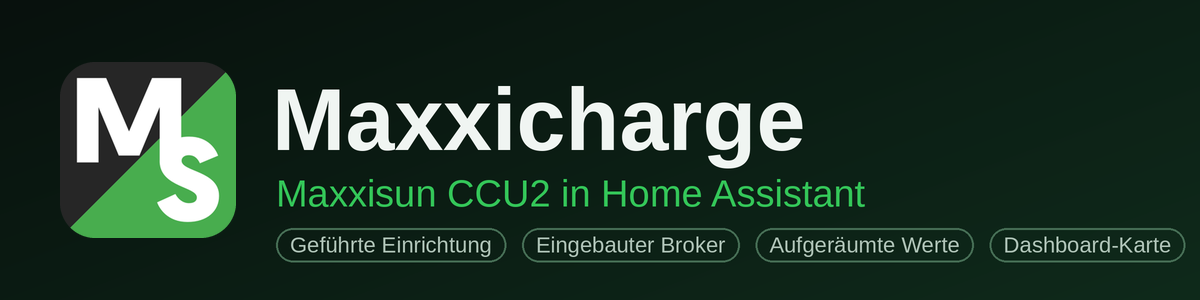
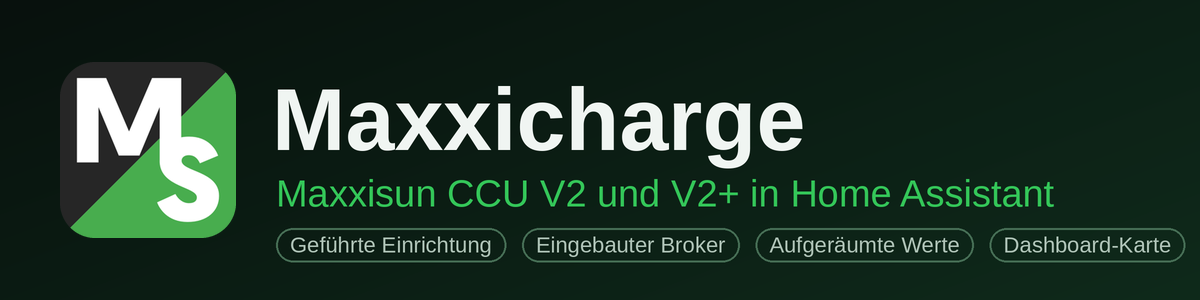
0.6.0: Modellerkennung CCU V2/V2+ über /api/info, Beschriftungen auf V2 und V2+

Changed region(s): [[0.4317, 0.6, 0.8942, 0.69]]

diff --git a/custom_components/maxxicharge/coordinator.py b/custom_components/maxxicharge/coordinator.py
@@ -5,23 +5,32 @@ from __future__ import annotations
 import asyncio
 from collections.abc import Callable
 from datetime import datetime, timedelta
+import ipaddress
 import logging
 import re
 from typing import Any
 
+import aiohttp
 from homeassistant.config_entries import ConfigEntry
 from homeassistant.core import HomeAssistant, callback
 from homeassistant.exceptions import HomeAssistantError
+from homeassistant.helpers import device_registry as dr
 from homeassistant.helpers import issue_registry as ir
+from homeassistant.helpers.aiohttp_client import async_get_clientsession
 from homeassistant.helpers.device_registry import DeviceInfo
-from homeassistant.helpers.event import async_track_time_interval
+from homeassistant.helpers.event import async_call_later, async_track_time_interval
 from homeassistant.helpers.template import Template
 from homeassistant.util import dt as dt_util
 
+from . import calc
 from .const import (
     CONF_CCU_ID,
     CONF_IP,
+    CONF_MODEL,
     DOMAIN,
+    INFO_REFRESH,
+    MODEL_AUTO,
+    MODEL_LABELS,
     MIN_WRITE_FIRMWARE,
     STALE_AFTER,
     TICK,
@@ -91,6 +100,7 @@ class MaxxiCoordinator:
         self._pl_not_avail = "offline"
         self._last_avail: bool | None = None
         self._warned_fw = False
+        self.model_raw: str | None = None  # `deviceModel` aus /api/info
 
         for name, spec in specs.items():
             if spec.state_topic:
@@ -115,6 +125,9 @@ class MaxxiCoordinator:
         self._unsubs.append(
             async_track_time_interval(self.hass, self._tick, timedelta(seconds=TICK_SECONDS))
         )
+        # Modell der CCU erkennen: kurz nach dem Start (die IP kommt erst per MQTT), danach alle paar Stunden
+        self._unsubs.append(async_call_later(self.hass, 20, self._info_job))
+        self._unsubs.append(async_track_time_interval(self.hass, self._info_job, timedelta(seconds=INFO_REFRESH)))
 
     @callback
     def async_stop(self) -> None:
@@ -245,6 +258,49 @@ class MaxxiCoordinator:
     def ip(self) -> str | None:
         return self.entry.options.get(CONF_IP) or self.entry.data.get(CONF_IP) or self.value("CCU IP")
 
+    # ---------- Modell (V2 / V2+) ----------
+    @property
+    def model(self) -> str | None:
+        """Modellname: von Hand gewählt, sonst von der CCU gemeldet, sonst None."""
+        choice = self.entry.options.get(CONF_MODEL, MODEL_AUTO)
+        if choice in MODEL_LABELS:
+            return MODEL_LABELS[choice]
+        return calc.model_label(self.model_raw)
+
+    @callback
+    def _info_job(self, _now: datetime) -> None:
+        self.hass.async_create_task(self.async_refresh_info())
+
+    async def async_refresh_info(self) -> None:
+        """Modell über http://<IP>/api/info lesen (nur lesend, nur private Adressen)."""
+        ip = self.ip
+        try:
+            if not ip or not ipaddress.ip_address(ip).is_private:
+                return
+            async with async_get_clientsession(self.hass).get(
+                f"http://{ip}/api/info", timeout=aiohttp.ClientTimeout(total=5)
+            ) as resp:
+                if resp.status != 200:
+                    return
+                data = await resp.json(content_type=None)
+        except (aiohttp.ClientError, TimeoutError, ValueError):
+            return
+        raw = data.get("deviceModel") if isinstance(data, dict) else None
+        if isinstance(raw, str) and raw != self.model_raw:
+            self.model_raw = raw
+            _LOGGER.info("CCU %s meldet das Modell %s (%s)", self.ccu_id, raw, self.model or "unbekannt")
+            self._update_device_model()
+            self._notify(None)
+
+    @callback
+    def _update_device_model(self) -> None:
+        label = self.model
+        if not label:
+            return
+        device = dr.async_get(self.hass).async_get_device(identifiers={(DOMAIN, self.ccu_id)})
+        if device and device.model != label:
+            dr.async_get(self.hass).async_update_device(device.id, model=label)
+
     @property
     def device_info(self) -> DeviceInfo:
         model = next((s.model for s in self.specs.values() if s.model), None)
@@ -252,7 +308,7 @@ class MaxxiCoordinator:
             identifiers={(DOMAIN, self.ccu_id)},
             name=f"CCU {self.ccu_id[-4:]}",
             manufacturer="Maxxisun",
-            model=model or "CCU Gen2",
+            model=self.model or model or "Maxxicharge CCU",
             serial_number=self.ccu_id,
             sw_version=self.firmware,
             configuration_url=f"homeassistant://maxxicharge?d={self.ccu_id[-4:]}",  # Maxxicharge-Seite (CCU-Weboberfläche dort verlinkt)

diff --git a/scripts/generate_translations.py b/scripts/generate_translations.py
@@ -74,6 +74,9 @@ TEXT = {
         "not_found": "Für diese CCU wurde keine Discovery-Config am Broker gefunden.",
         "none_selected": "Bitte mindestens eine CCU auswählen.",
         "opt_title": "Maxxicharge-Optionen",
+        "opt_model": "Modell der CCU",
+        "opt_model_d": "Wird normalerweise automatisch erkannt (V2 oder V2+). Nur ändern, wenn die CCU kein Modell meldet.",
+        "m_auto": "Automatisch erkennen",
         "opt_cleanup": "Alte Autodiscovery-Entities",
         "opt_cleanup_d": "Deaktiviert die doppelten Entities der CCU-Autodiscovery (nichts wird gelöscht) oder aktiviert sie wieder.",
         "c_none": "Nichts ändern",
@@ -149,6 +152,9 @@ TEXT = {
         "not_found": "No discovery config for this CCU found on the broker.",
         "none_selected": "Please select at least one CCU.",
         "opt_title": "Maxxicharge options",
+        "opt_model": "CCU model",
+        "opt_model_d": "Normally detected automatically (V2 or V2+). Only change it if the CCU does not report a model.",
+        "m_auto": "Detect automatically",
         "opt_cleanup": "Old autodiscovery entities",
         "opt_cleanup_d": "Disables the duplicate entities from the CCU autodiscovery (nothing is deleted) or re-enables them.",
         "c_none": "Change nothing",
@@ -245,8 +251,8 @@ def build(lang: str) -> dict:
                 "total_info": {"title": t["ot_title"], "description": t["ot_desc"]},
                 "settings": {
                     "title": t["opt_title"],
-                    "data": {"ip": t["ip"], "cleanup": t["opt_cleanup"]},
-                    "data_description": {"ip": t["ip_d"], "cleanup": t["opt_cleanup_d"]},
+                    "data": {"ip": t["ip"], "model": t["opt_model"], "cleanup": t["opt_cleanup"]},
+                    "data_description": {"ip": t["ip_d"], "model": t["opt_model_d"], "cleanup": t["opt_cleanup_d"]},
                 },
             },
             "error": {
@@ -256,6 +262,7 @@ def build(lang: str) -> dict:
             },
         },
         "selector": {
+            "model": {"options": {"auto": t["m_auto"], "v2": "CCU V2", "v2plus": "CCU V2+"}},
             "cleanup": {
                 "options": {"none": t["c_none"], "disable": t["c_disable"], "enable": t["c_enable"]}
             }

diff --git a/custom_components/maxxicharge/config_flow.py b/custom_components/maxxicharge/config_flow.py
@@ -47,7 +47,11 @@ from .const import (
     CONF_CLEANUP,
     CONF_IP,
     CONF_MODE,
+    CONF_MODEL,
     CONF_PREFIX,
+    MODEL_AUTO,
+    MODEL_V2,
+    MODEL_V2PLUS,
     DEFAULT_BROKER_PORT,
     DEFAULT_BROKER_USER,
     DEFAULT_PREFIX,
@@ -492,12 +496,21 @@ class MaxxiOptionsFlow(OptionsFlow):
                 cleanup_autodiscovery(
                     self.hass, entry.data[CONF_CCU_ID], user_input.get(CONF_CLEANUP, CLEANUP_NONE)
                 )
-                return self.async_create_entry(data={CONF_IP: ip})
+                return self.async_create_entry(
+                    data={CONF_IP: ip, CONF_MODEL: user_input.get(CONF_MODEL, MODEL_AUTO)}
+                )
         return self.async_show_form(
             step_id="settings",
             data_schema=vol.Schema(
                 {
                     vol.Optional(CONF_IP, default=current_ip): str,
+                    vol.Required(CONF_MODEL, default=entry.options.get(CONF_MODEL, MODEL_AUTO)): SelectSelector(
+                        SelectSelectorConfig(
+                            options=[MODEL_AUTO, MODEL_V2, MODEL_V2PLUS],
+                            mode=SelectSelectorMode.DROPDOWN,
+                            translation_key="model",
+                        )
+                    ),
                     vol.Required(CONF_CLEANUP, default=CLEANUP_NONE): SelectSelector(
                         SelectSelectorConfig(
                             options=[CLEANUP_NONE, CLEANUP_DISABLE, CLEANUP_ENABLE],

diff --git a/custom_components/maxxicharge/sensor.py b/custom_components/maxxicharge/sensor.py
@@ -100,6 +100,7 @@ async def async_setup_entry(
 
     derived("time_to_full", (rem_n, cp_n), _to_full,
             unit=lambda c: "h", dc=SensorDeviceClass.DURATION, sc=SensorStateClass.MEASUREMENT, digits=1)
+    entities.append(MaxxiModelSensor(c, _ITEMS["model"]))
     entities.append(MaxxiLastUpdateSensor(c, _ITEMS["last_update"]))
     async_add_entities(entities)
 
@@ -191,3 +192,21 @@ class MaxxiLastUpdateSensor(MaxxiEntity, SensorEntity):
     @property
     def native_value(self) -> datetime | None:
         return self.coordinator.last_update
+
+
+class MaxxiModelSensor(MaxxiEntity, SensorEntity):
+    """Modell der CCU (V2 oder V2+), erkannt über /api/info oder in den Optionen festgelegt."""
+
+    always_available = True
+
+    def __init__(self, coordinator: MaxxiCoordinator, item: Any) -> None:
+        super().__init__(coordinator, item.key, item.group, (TICK,), translation_key=item.key)
+
+    @property
+    def native_value(self) -> str:
+        german = self.hass.config.language.startswith("de")
+        return self.coordinator.model or ("Unbekannt" if german else "Unknown")
+
+    @property
+    def extra_state_attributes(self) -> dict[str, str | None]:
+        return {"gemeldet": self.coordinator.model_raw}

diff --git a/scripts/make_docs_images.py b/scripts/make_docs_images.py
@@ -60,7 +60,7 @@ def banner() -> None:
     w, h = 1200, 300
     img, d = canvas(w, h)
     text(d, (272, 70), "Maxxicharge", font(BOLD, 88), WHITE)
-    text(d, (276, 172), "Maxxisun CCU2 in Home Assistant", font(REG, 38), GREEN)
+    text(d, (276, 172), "Maxxisun CCU V2 und V2+ in Home Assistant", font(REG, 38), GREEN)
     x = 276
     for tag in ("Geführte Einrichtung", "Eingebauter Broker", "Aufgeräumte Werte", "Dashboard-Karte"):
         f = font(REG, 22)
@@ -113,7 +113,7 @@ def architecture() -> None:
         for j, s_ in enumerate(sub):
             text(d, (x + bw / 2, y + 72 + j * 28), s_, font(REG, 20), SOFT, "mm")
 
-    box(24, 48, 230, 130, "CCU 1", ["Maxxisun CCU2", "Firmware 2.43+"])
+    box(24, 48, 230, 130, "CCU 1", ["CCU V2 / V2+", "Firmware 2.42.103+"])
     box(24, 222, 230, 130, "CCU 2", ["weitere CCUs", "jederzeit möglich"])
     box(340, 107, 260, 180, "MQTT-Broker", ["eingebaut (nichts", "zu installieren)", "oder vorhandenes MQTT"], (74, 144, 226))
     box(686, 90, 228, 214, "Maxxicharge", ["liest die Discovery,", "räumt auf, rechnet,", "prüft jedes Schreiben"])

diff --git a/custom_components/maxxicharge/const.py b/custom_components/maxxicharge/const.py
@@ -19,6 +19,10 @@ KIND_CCU = "ccu"
 KIND_TOTAL = "total"
 TOTAL_UNIQUE_ID = "maxxicharge_total"
 TOTAL_TICK = 5  # Sekunden: Aktualisierung der Gesamtwerte
+CONF_MODEL = "model"  # Modell von Hand festlegen: auto / v2 / v2plus
+MODEL_AUTO, MODEL_V2, MODEL_V2PLUS = "auto", "v2", "v2plus"
+MODEL_LABELS = {MODEL_V2: "CCU V2", MODEL_V2PLUS: "CCU V2+"}
+INFO_REFRESH = 6 * 3600  # Sekunden zwischen zwei Abfragen von /api/info
 CONF_MODE = "mode"
 CONF_BROKER_PORT = "broker_port"
 CONF_BROKER_USER = "broker_user"
@@ -152,6 +156,7 @@ DERIVED: list[Item] = [
     Item("empty", "binary_sensor", "Speicher leer", "Battery empty", G_MAIN),
     Item("online", "binary_sensor", "Verbunden", "Connected", G_DIAG),
     Item("write_possible", "binary_sensor", "Schreiben möglich", "Writing possible", G_DIAG),
+    Item("model", "sensor", "Modell", "Model", G_DIAG),
     Item("efficiency", "sensor", "Wirkungsgrad", "Round-trip efficiency", G_ENERGY),
     Item("cycles", "sensor", "Ladezyklen", "Charge cycles", G_ENERGY),
     Item("runtime", "sensor", "Restlaufzeit", "Remaining runtime", G_MAIN),

diff --git a/tests/test_calc.py b/tests/test_calc.py
@@ -23,6 +23,10 @@ res["dur_days"] = calc.format_duration(172975) == "2 Tage 0 Std 2 Min"
 res["dur_one_day_en"] = calc.format_duration(90000, False) == "1 d 1 h 0 min"
 res["dur_short"] = calc.format_duration(42) == "42 s" and calc.format_duration(None) is None
 
+res["model_plus"] = calc.model_label("CCU2_PLUS") == "CCU V2+" and calc.model_label(" ccu2_plus ") == "CCU V2+"
+res["model_v2"] = calc.model_label("CCU2") == "CCU V2"
+res["model_unknown"] = calc.model_label("UNKNOWN") is None and calc.model_label(None) is None and calc.model_label("") is None
+
 for k, v in res.items():
     print("OK  " if v else "FAIL", k)
 sys.exit(0 if all(res.values()) else 1)

diff --git a/custom_components/maxxicharge/calc.py b/custom_components/maxxicharge/calc.py
@@ -82,3 +82,13 @@ def format_duration(seconds: float | None, german: bool = True) -> str | None:
         parts.append(f"{h} {'Std' if german else 'h'}")
     parts.append(f"{m} {'Min' if german else 'min'}")
     return " ".join(parts)
+
+
+MODEL_NAMES = {"CCU2_PLUS": "CCU V2+", "CCU2": "CCU V2"}
+
+
+def model_label(raw: str | None) -> str | None:
+    """Modellname aus dem Wert `deviceModel` der CCU (/api/info); None, wenn die CCU keins meldet (z. B. UNKNOWN)."""
+    if not raw:
+        return None
+    return MODEL_NAMES.get(raw.strip().upper())

diff --git a/custom_components/maxxicharge/__init__.py b/custom_components/maxxicharge/__init__.py
@@ -1,4 +1,4 @@
-"""Maxxicharge: aufgeräumte, geprüfte Anbindung der Maxxisun-CCU2 über MQTT."""
+"""Maxxicharge: aufgeräumte, geprüfte Anbindung der Maxxisun CCU V2 und V2+ über MQTT."""
 
 from __future__ import annotations
 

diff --git a/README.md b/README.md
@@ -1,5 +1,5 @@
 <p align="center">
-  <img src="https://raw.githubusercontent.com/DerSpletti/ha-maxxicharge/main/docs/images/banner.png" alt="Maxxicharge – Maxxisun CCU2 in Home Assistant" width="100%">
+  <img src="https://raw.githubusercontent.com/DerSpletti/ha-maxxicharge/main/docs/images/banner.png" alt="Maxxicharge – Maxxisun CCU V2 und V2+ in Home Assistant" width="100%">
 </p>
 
 <p align="center">
@@ -57,17 +57,21 @@ Es gibt keine fest eingebauten Topic-Namen: Alles kommt aus der Discovery der CC
 
 ## Voraussetzungen
 - Home Assistant **2025.1** oder neuer
-- Maxxisun CCU2 mit Firmware **2.42.103** oder neuer zum Lesen, **2.43** oder neuer zum Ändern von Einstellungen
+- Maxxisun **CCU V2 oder V2+** mit Firmware **2.42.103** oder neuer zum Lesen, **2.43** oder neuer zum Ändern von Einstellungen
 - CCU und Home Assistant im selben Netz
 
 ### Unterstützte Geräte
-| Gerät | Status |
+| Modell | Status |
 |---|---|
-| **Maxxicharge CCU V2+** (Steuereinheit „CCU2“ / „CCU Gen2“, Firmware ab 2.42.103) | ✅ unterstützt: Lesen ab 2.42.103, Einstellungen ändern ab 2.43 |
-| **Maxxicharge CCU V2** (ältere Steuereinheit ohne MQTT-Schnittstelle) | ❌ noch nicht unterstützt: Sie spricht kein MQTT, auf das diese Integration aufbaut |
+| **Maxxicharge CCU V2+** | ✅ unterstützt: Lesen ab Firmware 2.42.103, Einstellungen ändern ab 2.43 |
+| **Maxxicharge CCU V2** | ✅ unterstützt, sobald die CCU die MQTT-Schnittstelle hat (Firmware ab 2.42.103). Eine CCU mit älterer Firmware ohne MQTT lässt sich nicht einbinden. |
 
-Beide CCU-Typen können nebeneinander am selben Zähler regeln. Die V2 bleibt dabei unberührt, sie taucht in Home Assistant über
-diese Integration nur nicht auf.
+Beide Modelle melden sich mit einer Seriennummer der Form `CCU2-XXXX-XXXX-XXXX` und lassen sich nebeneinander am selben Zähler betreiben.
+
+**Modellerkennung:** Die Integration fragt bei jeder CCU `http://<IP>/api/info` ab (nur lesend, nur Adressen im Heimnetz) und zeigt das
+Ergebnis als Gerätemodell („CCU V2+“ bzw. „CCU V2“) und als Diagnose-Sensor **Modell**. Meldet die CCU kein bekanntes Modell
+(bei einer getesteten CCU steht dort `UNKNOWN`), zeigt der Sensor „Unbekannt“. Dann kannst du das Modell unter
+Eintrag → Konfigurieren → Einstellungen von Hand festlegen. Zuordnung: `CCU2_PLUS` = V2+, `CCU2` = V2.
 
 ## Einrichtung in 4 Schritten
 <p align="center">
@@ -216,7 +220,7 @@ sind geschwärzt.
   Log und legt einen Hinweis unter *Reparaturen* an.
 - **Ältere Firmware meldet Einstellungen teils nicht zurück** (z. B. 2.43.21 bei einer der getesteten CCUs). Die Werte bleiben
   „unbekannt“, und ein Schreibzugriff kann nicht bestätigt werden. Ein Firmware-Update über die Maxxisun-App hilft.
-- Die ältere **Maxxicharge CCU V2** ohne MQTT wird nicht unterstützt (siehe [Unterstützte Geräte](#unterstützte-geräte)).
+- Eine CCU, die keine MQTT-Schnittstelle hat (Firmware vor 2.42.103), wird nicht unterstützt. Siehe [Unterstützte Geräte](#unterstützte-geräte).
 - Der **eingebaute Broker** ist bewusst klein: Anmeldung, Publish/Subscribe, Retained, Last Will, MQTT 3.1.1 und 5,
   **keine Verschlüsselung**, höchstens 20 Clients. Belegt ein anderer Dienst den Port 1883, wähle einen anderen Port.
 - Die MQTT-Verbindung der CCU ist **unverschlüsselt**. Nur im vertrauenswürdigen Heimnetz betreiben.

diff --git a/README.en.md b/README.en.md
@@ -1,5 +1,5 @@
 <p align="center">
-  <img src="https://raw.githubusercontent.com/DerSpletti/ha-maxxicharge/main/docs/images/banner.png" alt="Maxxicharge – Maxxisun CCU2 in Home Assistant" width="100%">
+  <img src="https://raw.githubusercontent.com/DerSpletti/ha-maxxicharge/main/docs/images/banner.png" alt="Maxxicharge – Maxxisun CCU V2 and V2+ in Home Assistant" width="100%">
 </p>
 
 <p align="center">
@@ -56,17 +56,21 @@ comes from the CCU’s discovery.
 
 ## Requirements
 - Home Assistant **2025.1** or newer
-- Maxxisun CCU2 with firmware **2.42.103** or newer for reading, **2.43** or newer to change settings
+- Maxxisun **CCU V2 or V2+** with firmware **2.42.103** or newer for reading, **2.43** or newer to change settings
 - CCU and Home Assistant on the same network
 
 ### Supported devices
-| Device | Status |
+| Model | Status |
 |---|---|
-| **Maxxicharge CCU V2+** (control unit “CCU2” / “CCU Gen2”, firmware 2.42.103+) | ✅ supported: reading from 2.42.103, changing settings from 2.43 |
-| **Maxxicharge CCU V2** (older control unit without an MQTT interface) | ❌ not supported yet: it does not speak MQTT, which this integration builds on |
+| **Maxxicharge CCU V2+** | ✅ supported: reading from firmware 2.42.103, changing settings from 2.43 |
+| **Maxxicharge CCU V2** | ✅ supported as soon as the CCU has the MQTT interface (firmware 2.42.103 or newer). A CCU with older firmware without MQTT cannot be added. |
 
-Both CCU types can regulate side by side on the same meter. The V2 stays untouched; it just does not show up in Home Assistant
-through this integration.
+Both models report a serial number like `CCU2-XXXX-XXXX-XXXX` and can run side by side on the same meter.
+
+**Model detection:** The integration queries `http://<IP>/api/info` on each CCU (read-only, local network addresses only) and shows
+the result as the device model (“CCU V2+” or “CCU V2”) and as the diagnostic sensor **Model**. If the CCU reports no known model
+(one tested CCU says `UNKNOWN`), the sensor shows “Unknown”. You can then set the model by hand under entry → Configure →
+Settings. Mapping: `CCU2_PLUS` = V2+, `CCU2` = V2.
 
 ## Setup in 4 steps
 <p align="center">
@@ -208,7 +212,7 @@ The **diagnostics download** (entry → ⋮ → Download diagnostics) contains t
   notice under *Repairs*.
 - **Older firmware may not report settings back** (e.g. 2.43.21 on one tested CCU). The values stay “unknown” and a write
   cannot be confirmed. A firmware update via the Maxxisun app helps.
-- The older **Maxxicharge CCU V2** without MQTT is not supported (see [Supported devices](#supported-devices)).
+- A CCU without an MQTT interface (firmware before 2.42.103) is not supported. See [Supported devices](#supported-devices).
 - The **built-in broker** is deliberately small: login, publish/subscribe, retained, last will, MQTT 3.1.1 and 5, **no
   encryption**, at most 20 clients. If another service uses port 1883, choose another port.
 - The CCU’s MQTT connection is **unencrypted**. Use it only in a trusted home network.

diff --git a/CHANGELOG.md b/CHANGELOG.md
@@ -3,6 +3,13 @@
 Alle wichtigen Änderungen an diesem Projekt. Format nach [Keep a Changelog](https://keepachangelog.com/de/1.1.0/),
 Versionierung nach [SemVer](https://semver.org/lang/de/).
 
+## [0.6.0] – 2026-11-01
+### Neu
+- **Modellerkennung CCU V2 / V2+:** Die Integration liest `/api/info` jeder CCU und zeigt das Modell als Gerätemodell und als Diagnose-Sensor
+  „Modell“. Meldet die CCU kein bekanntes Modell, lässt es sich in den Optionen von Hand festlegen.
+### Geändert
+- Alle Beschriftungen sprechen jetzt von **CCU V2 und V2+** (README, Banner, HACS-Name). Die Liste der unterstützten Geräte wurde angepasst.
+
 ## [0.5.1] – 2026-11-01
 ### Geändert
 - Ladestrategie „Preisplan“ heißt jetzt **„Dynamixx“**, wie bei Maxxisun (in jeder Sprache).
@@ -82,6 +89,7 @@ Versionierung nach [SemVer](https://semver.org/lang/de/).
 - Schreiben der Einstellungen mit Prüfung der Rückmeldung (Fehler im UI statt stillem Zurückspringen).
 - Abgeleitete Werte, Config- und Options-Flow, Diagnose, Firmware-Hinweis (Schreiben ab 2.43).
 
+[0.6.0]: https://github.com/DerSpletti/ha-maxxicharge/releases/tag/v0.6.0
 [0.5.1]: https://github.com/DerSpletti/ha-maxxicharge/releases/tag/v0.5.1
 [0.5.0]: https://github.com/DerSpletti/ha-maxxicharge/releases/tag/v0.5.0
 [0.4.1]: https://github.com/DerSpletti/ha-maxxicharge/releases/tag/v0.4.1
